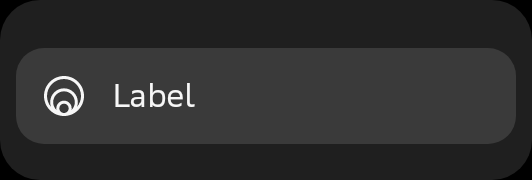
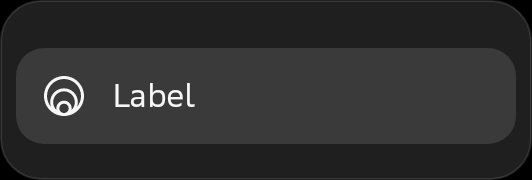
fix: Fixed strokeWidth setting in ShapeHelper. Screenshots were updated.

Changed region(s): [[0.0602, 0.9722, 0.9323, 1.0], [0.0602, 0.0, 0.9323, 0.0278], [0.9925, 0.2222, 1.0, 0.7778]]

diff --git a/sdds-core/uikit/src/main/kotlin/com/sdds/uikit/internal/base/shape/ShapeHelper.kt b/sdds-core/uikit/src/main/kotlin/com/sdds/uikit/internal/base/shape/ShapeHelper.kt
@@ -118,9 +118,9 @@ internal class ShapeHelper(
         val shapeModel = getShapeAppearanceModel()
         return this.apply {
             setShapeModel(shapeModel)
-            setStrokeTint(strokeColor)
-            setStrokeWidth(strokeWidth)
-            setColorAnimationEnabled(colorAnimationEnabled)
+            setStrokeTint(this@ShapeHelper.strokeColor)
+            setStrokeWidth(this@ShapeHelper.strokeWidth)
+            setColorAnimationEnabled(this@ShapeHelper.colorAnimationEnabled)
             if (shadowEnabled) setupShadow()
         }
     }
